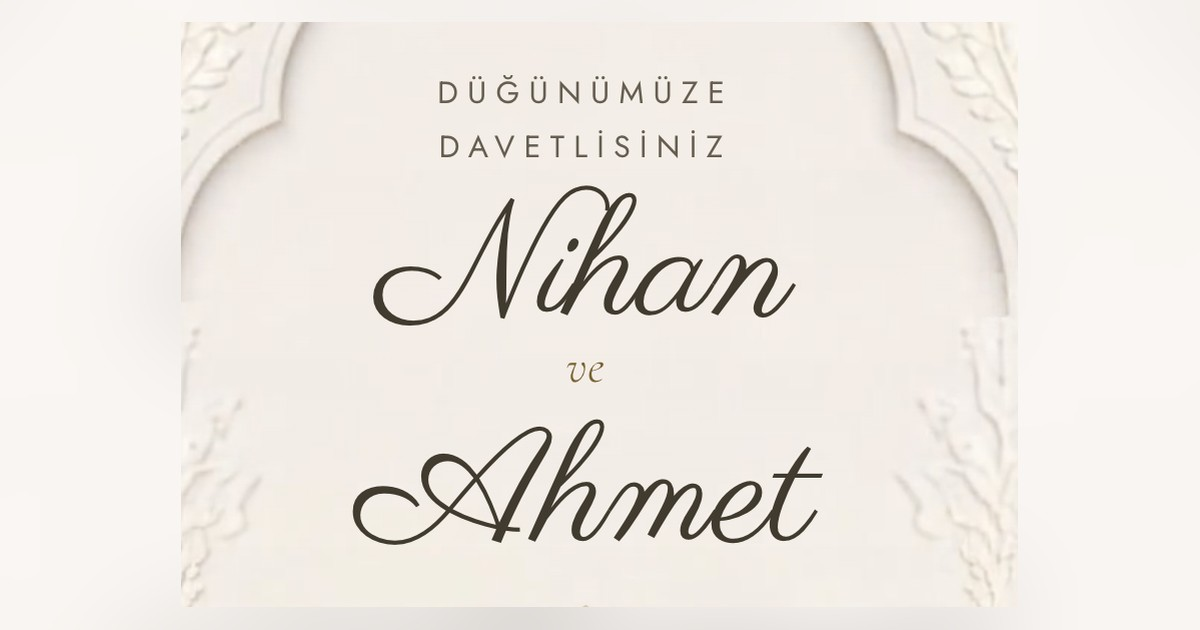
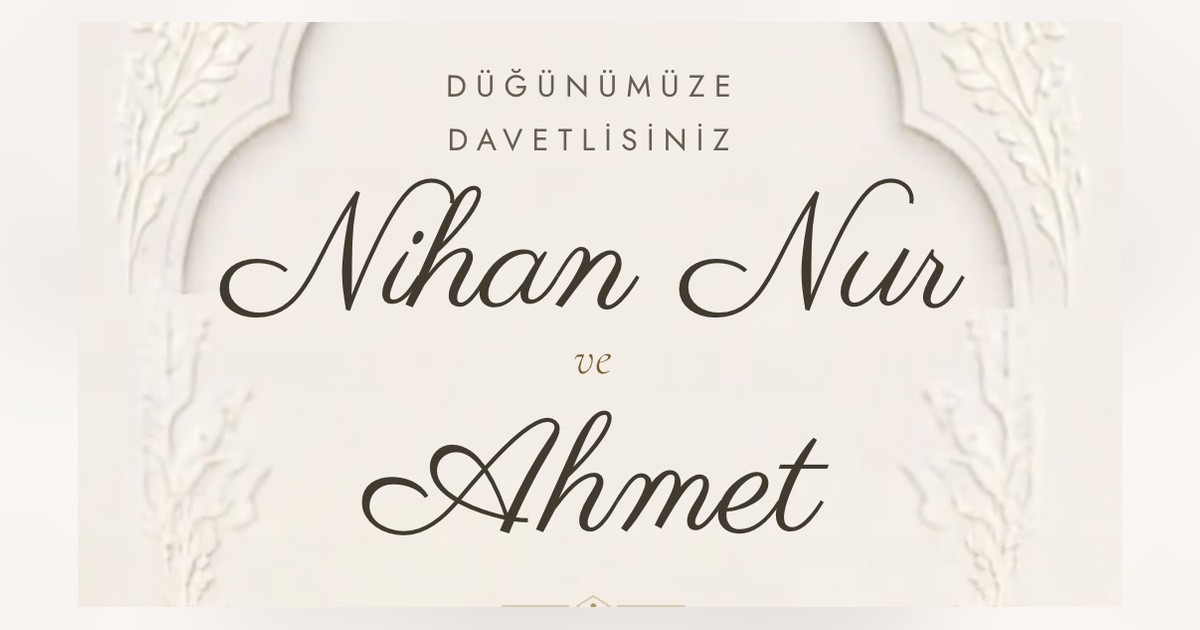
Add files via upload

diff --git a/index.html b/index.html
@@ -596,11 +596,14 @@ body.opened{ overflow-y: auto; overflow-x: hidden; }
   font-size: var(--t-when); line-height: 1.35; text-wrap: balance;
   margin: 0 0 1.5rem;
 }
+/* Saat, tarihin ikinci satırı: aynı yazı tipi, boyut ve renk. */
 .when small{
-  display: block; margin-top: .55rem;
-  font-family: "Jost", sans-serif;
-  font-size: .68rem; font-weight: 500; letter-spacing: .24em; text-transform: uppercase;
-  color: var(--ink-soft);
+  display: block;
+  margin-top: .1em;
+  font: inherit;
+  letter-spacing: inherit;
+  text-transform: none;
+  color: inherit;
 }
 
 .actions{ display: grid; gap: .6rem; }
@@ -630,7 +633,11 @@ body.opened{ overflow-y: auto; overflow-x: hidden; }
   margin: 0 0 .45rem; text-wrap: balance;
 }
 .city{ font-size: var(--t-small); font-weight: 500; letter-spacing: .24em; text-transform: uppercase; color: var(--gold-text); margin: 0 0 1.2rem; }
-.addr{ color: var(--ink-soft); font-weight: 400; font-size: var(--t-body); max-width: 25rem; margin: 0 auto 1.6rem; }
+.addr{ color: var(--ink-soft); font-weight: 400; font-size: var(--t-body); max-width: 25rem; margin: 0 auto; }
+/* Adres iki satır: resmi adres + yol tarifi. Aynı yazı tipi ve boyut,
+   aralarında yalnızca satır boşluğu kadar mesafe. */
+.addr-block{ display: grid; gap: .18em; margin: 0 auto 1.6rem; }
+.has-video .addr-block{ margin: 0 auto; }
 .pin{ width: 32px; height: 44px; margin: 0 auto 1rem; display: block; stroke: var(--gold); fill: none; stroke-width: 1.1; }
 
 .closing{ text-align: center; padding: 3.2rem 0 0; }
@@ -800,7 +807,10 @@ body.opened{ overflow-y: auto; overflow-x: hidden; }
     <p class="sub">Sizi burada bekliyoruz</p>
     <p class="venue" id="venueName">Parle Davet ve Balo Salonu</p>
     <p class="city" id="venueCity">Melikgazi · Kayseri</p>
-    <p class="addr" id="venueAddr">Bahçelievler Mah. 3. Cad., Melikgazi / Kayseri</p>
+    <div class="addr-block">
+      <p class="addr" id="venueAddr">Bahçelievler Mah. 3. Cad., Melikgazi / Kayseri</p>
+      <p class="addr" id="venueHint">(Gesi yolu, petrol ofisi arkası)</p>
+    </div>
     <div class="actions">
       <a class="btn primary" id="gmaps" href="#" target="_blank" rel="noopener">
         <svg viewBox="0 0 16 16" aria-hidden="true"><path d="M14 2 10 14l-2-5.5L2.5 6.5 14 2Z"/></svg>
@@ -930,6 +940,7 @@ const CONFIG = {
   venueName: "Parle Davet ve Balo Salonu",
   venueCity: "Melikgazi · Kayseri",
   venueAddress: "Bahçelievler Mah. 3. Cad., Melikgazi / Kayseri",
+  venueHint: "(Gesi yolu, petrol ofisi arkası)",   // boş bırakılırsa satır görünmez
   mapsQuery: "Parle Davet ve Balo Salonu, Melikgazi, Kayseri",
   mapsUrl:   "https://maps.app.goo.gl/1sBnp5pP1nK8rR2B7",   // Google Maps kısa linki
   coords:    "38.7773273,35.5805531",                        // Apple Haritalar için
@@ -990,6 +1001,8 @@ $("timeLine").textContent = CONFIG.timeLabel;
 $("venueName").textContent = CONFIG.venueName;
 $("venueCity").textContent = CONFIG.venueCity;
 $("venueAddr").textContent = CONFIG.venueAddress;
+if (CONFIG.venueHint) $("venueHint").textContent = CONFIG.venueHint;
+else $("venueHint").remove();
 $("closingNote").textContent = CONFIG.closingNote;
 $("sigLine").textContent = CONFIG.signature;
 $("mono").innerHTML = CONFIG.initials.split("").join(" &nbsp;");
@@ -1010,7 +1023,8 @@ const start = new Date(CONFIG.startsAt);
 const end   = new Date(CONFIG.endsAt);
 const utc = (d) => d.toISOString().replace(/[-:]/g, "").replace(/\.\d{3}/, "");
 const title = CONFIG.bride + " & " + CONFIG.groom + " Düğün Töreni";
-const where = CONFIG.venueName + ", " + CONFIG.venueAddress;
+const where = CONFIG.venueName + ", " + CONFIG.venueAddress
+  + (CONFIG.venueHint ? " " + CONFIG.venueHint : "");
 
 $("gcal").href = "https://calendar.google.com/calendar/render?action=TEMPLATE"
   + "&text=" + encodeURIComponent(title)
